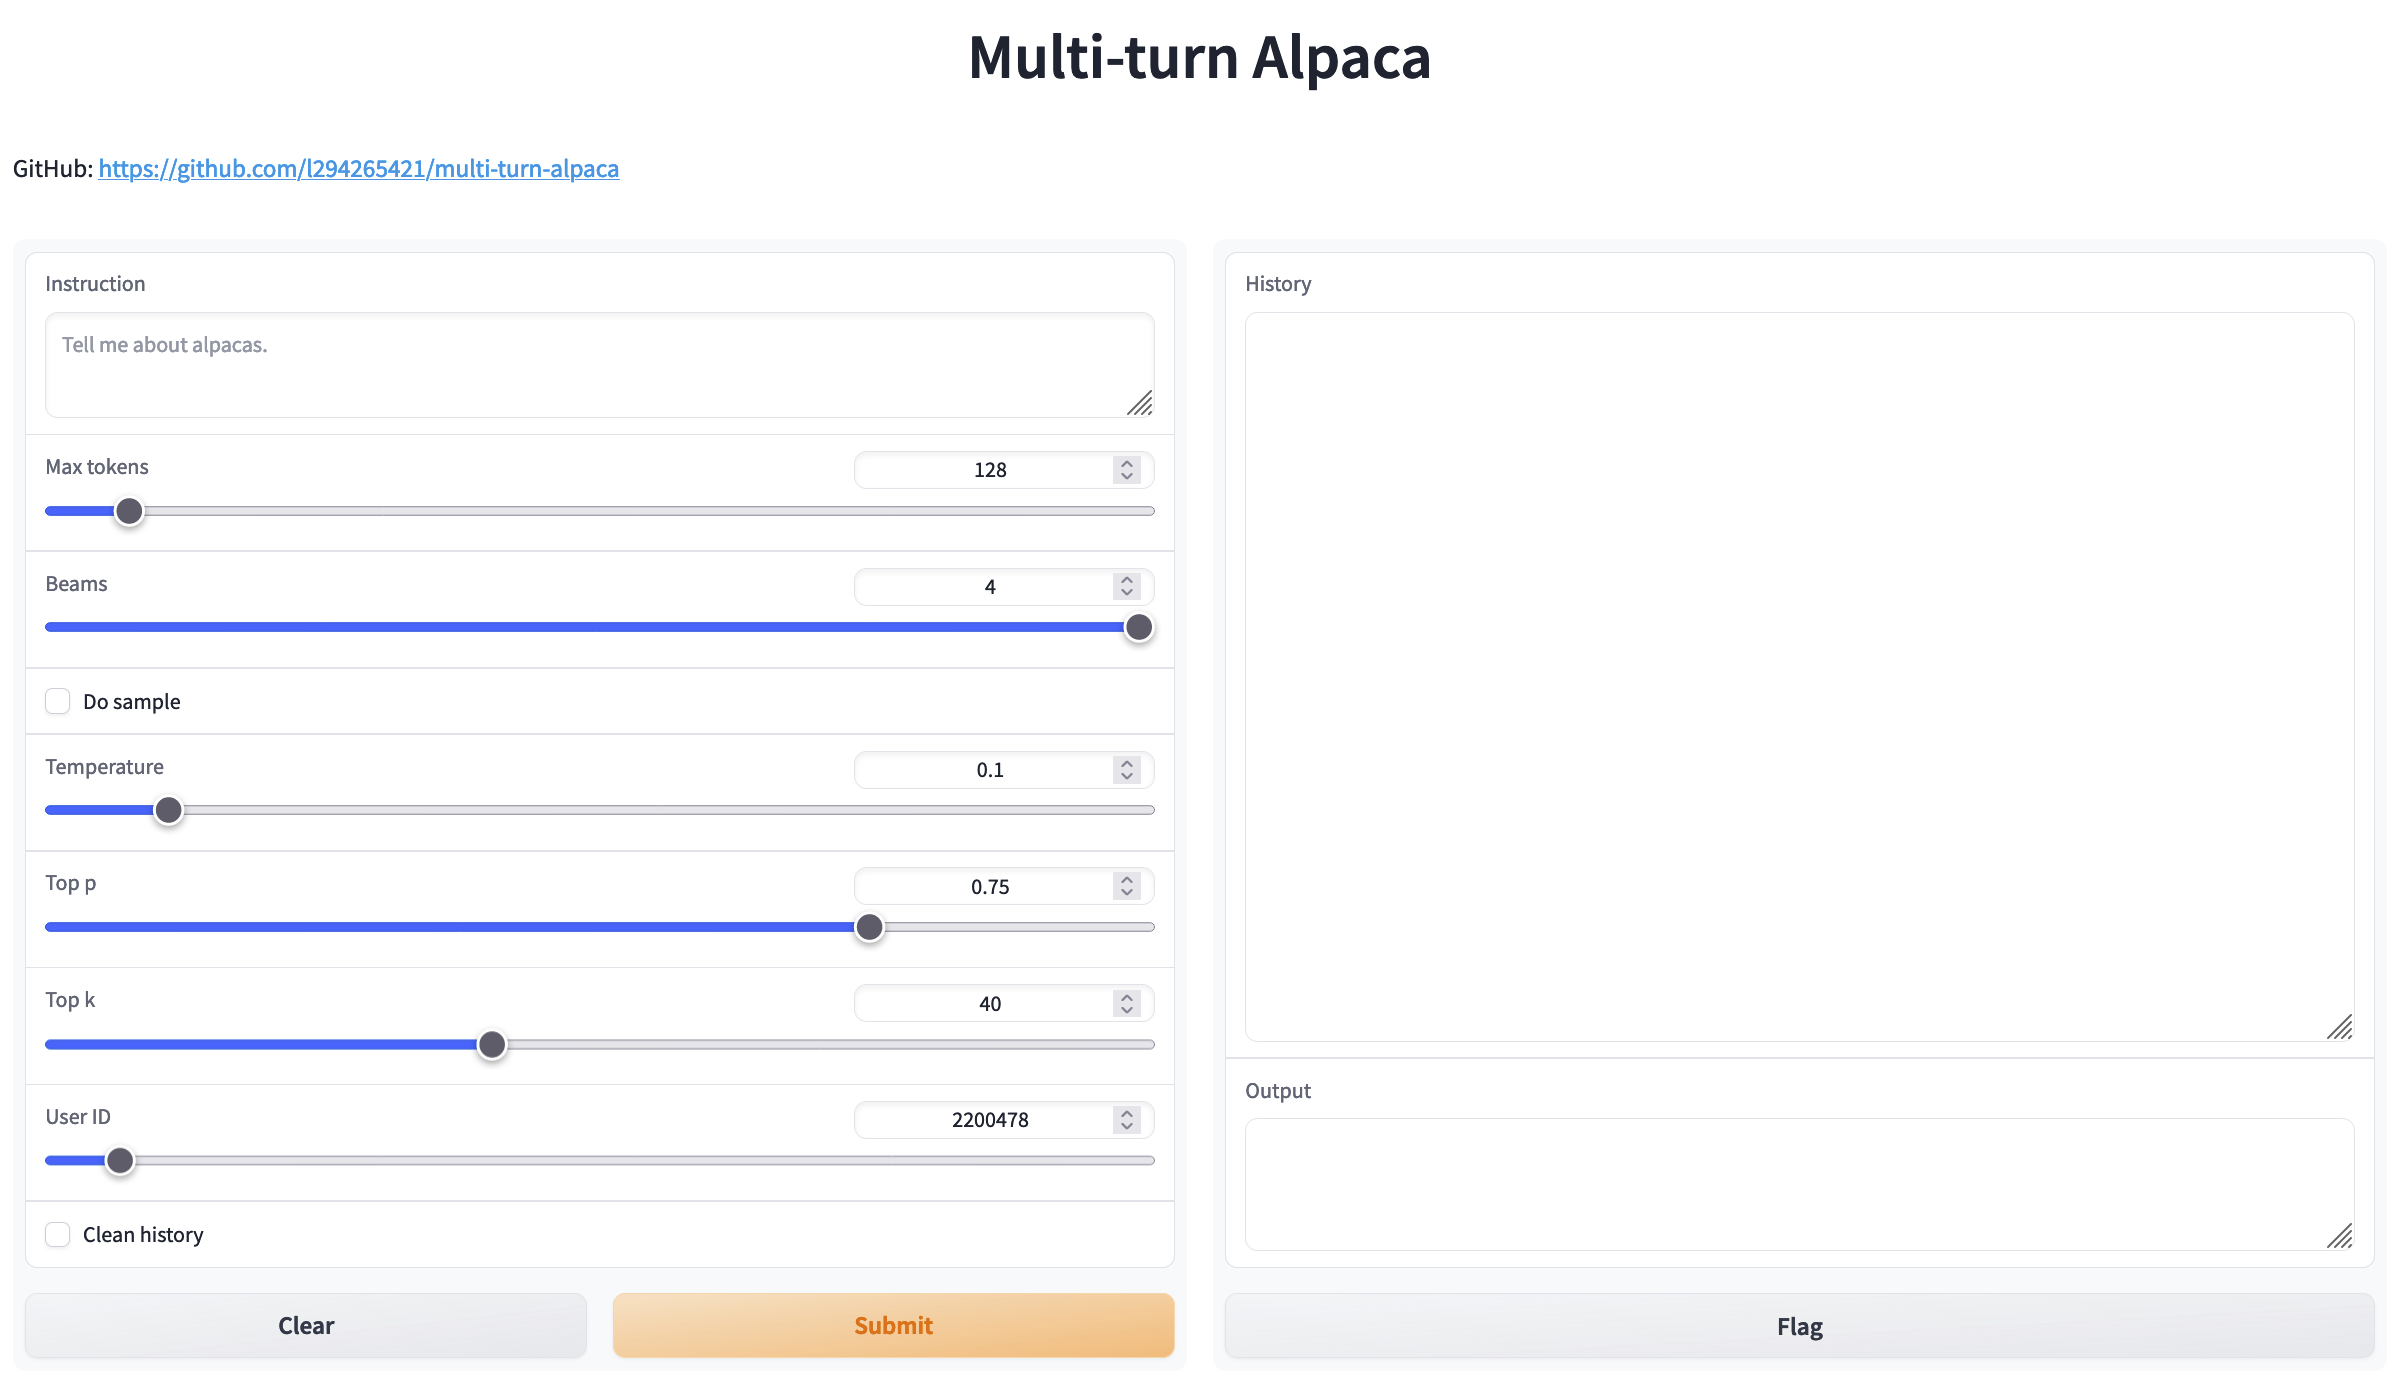
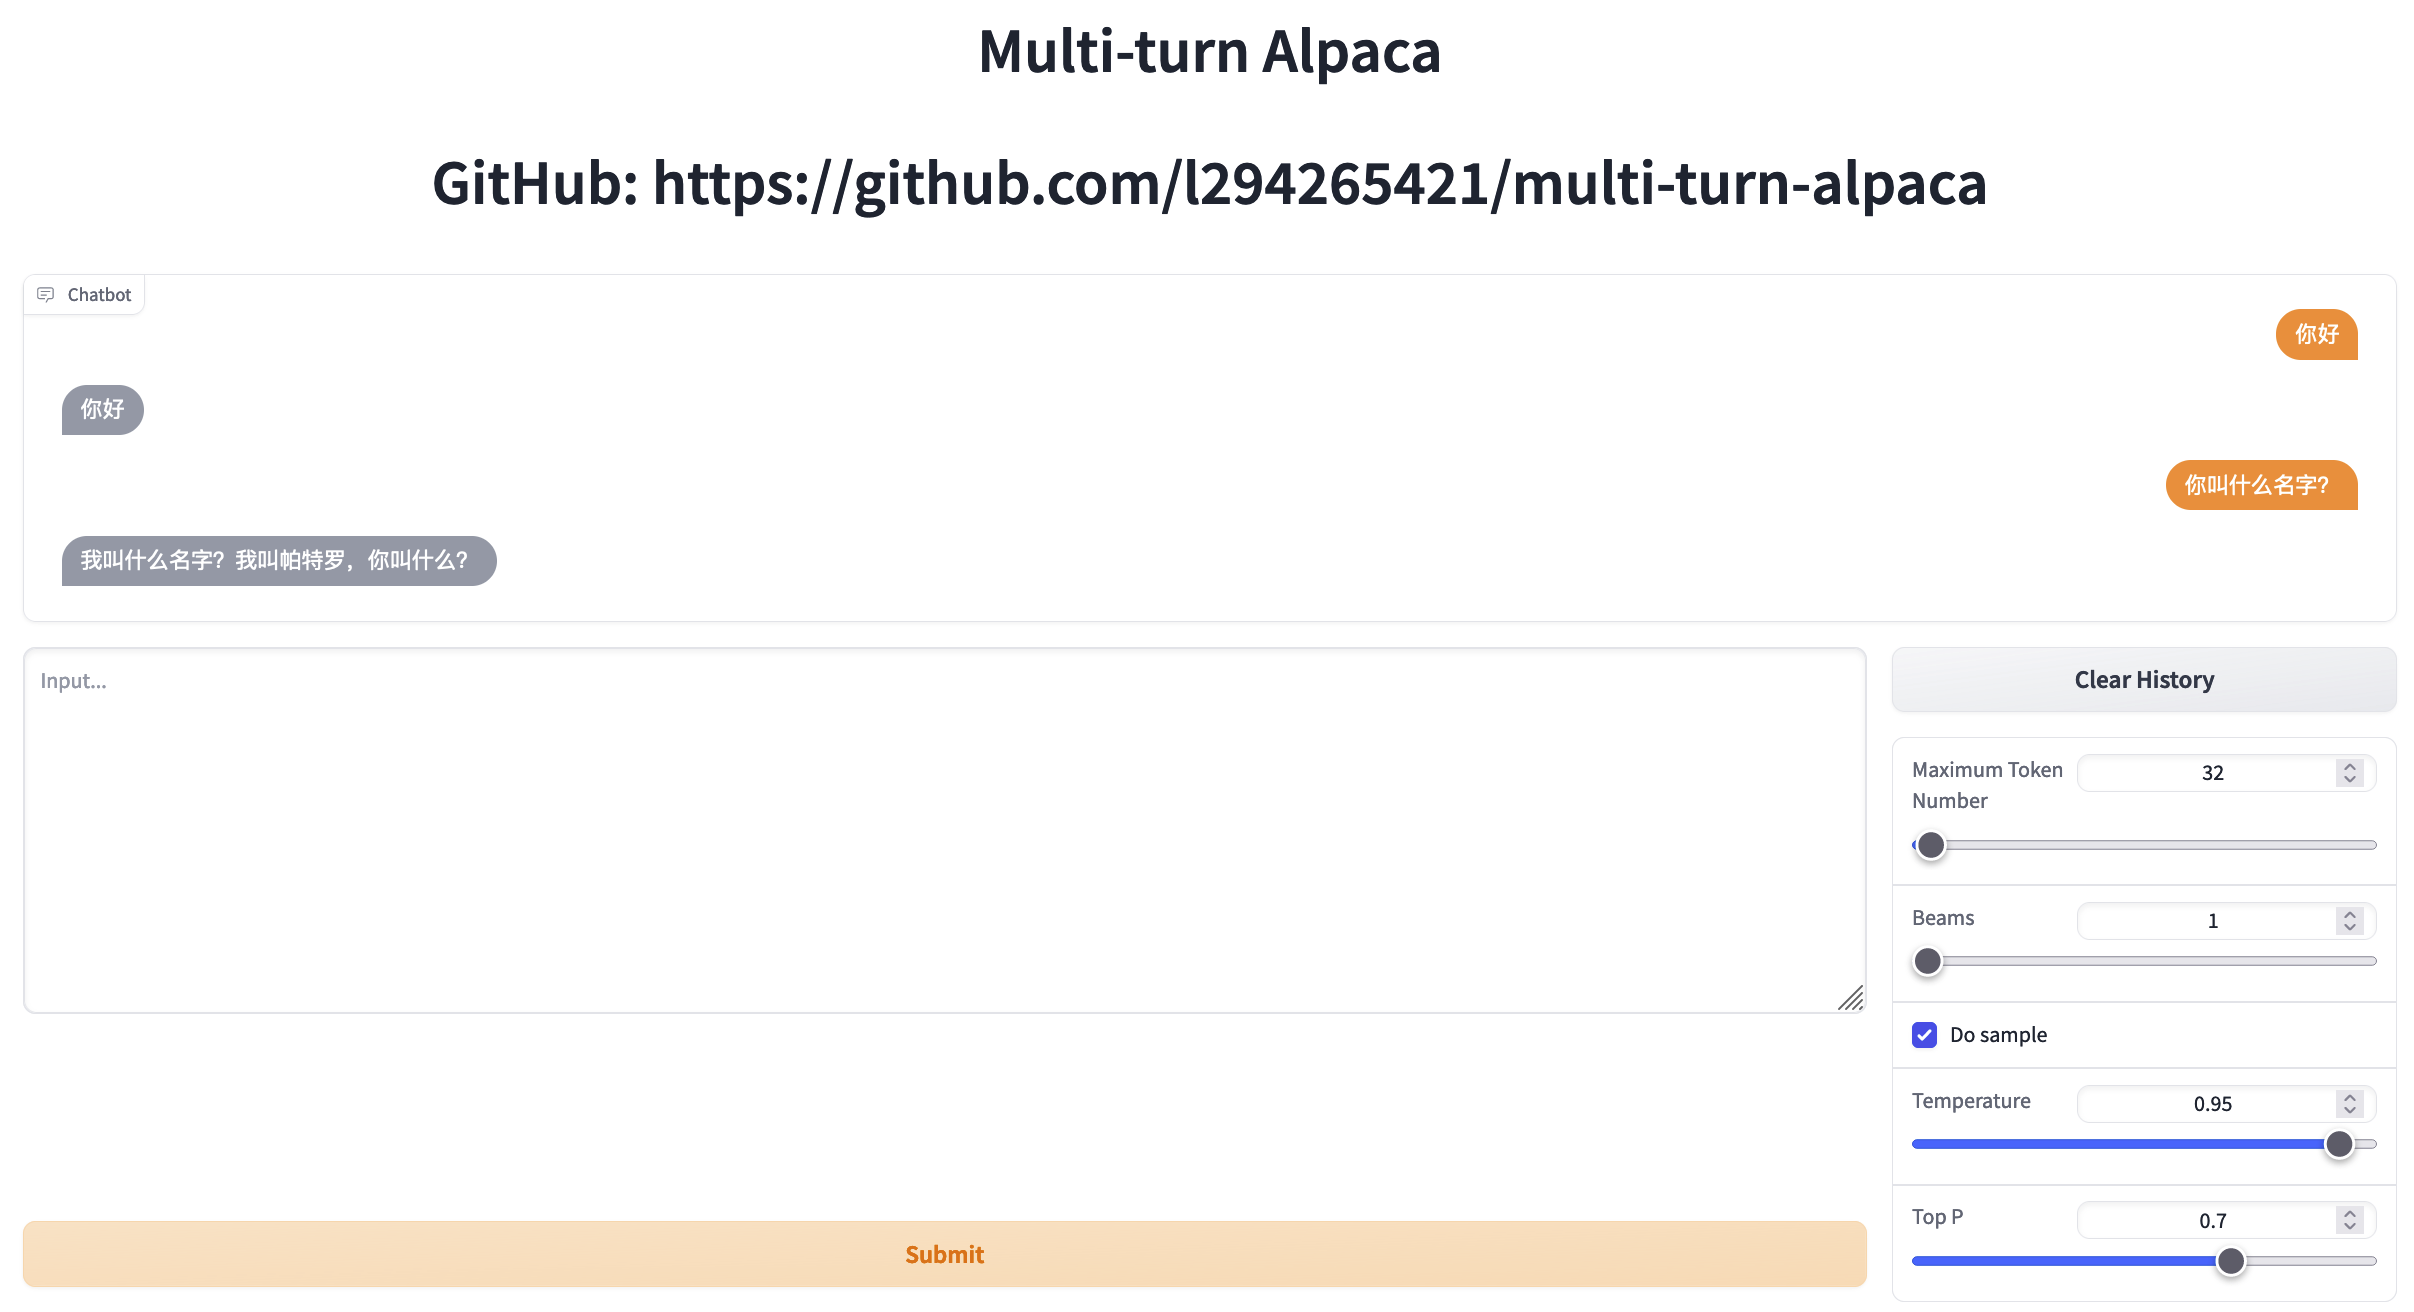
add chatbot

diff --git a/multi_turn_alpaca/training_model/alpaca_chatbot.py b/multi_turn_alpaca/training_model/alpaca_chatbot.py
@@ -1,10 +1,57 @@
-from transformers import AutoModel, AutoTokenizer
+import os
+import sys
+import random
+
+import fire
 import gradio as gr
+import torch
+import transformers
+from peft import PeftModel
+from transformers import GenerationConfig
+from transformers import LlamaForCausalLM
+from transformers import LlamaTokenizer
 import mdtex2html
 
-# tokenizer = AutoTokenizer.from_pretrained("THUDM/chatglm-6b", trust_remote_code=True)
-# model = AutoModel.from_pretrained("THUDM/chatglm-6b", trust_remote_code=True).half().cuda()
-# model = model.eval()
+from multi_turn_alpaca.utils.prompter import Prompter
+
+if torch.cuda.is_available():
+    device = "cuda"
+else:
+    device = "cpu"
+
+load_8bit: bool = False
+base_model: str = "decapoda-research/llama-7b-hf"
+lora_weights: str = "./multi-turn-alpaca"
+prompt_template: str = "multi_turn"  # The prompt template to use, will default to alpaca.
+
+
+prompter = Prompter(prompt_template)
+
+tokenizer = LlamaTokenizer.from_pretrained(base_model)
+
+model = LlamaForCausalLM.from_pretrained(
+    base_model,
+    load_in_8bit=load_8bit,
+    torch_dtype=torch.float16,
+    device_map="auto",
+)
+model = PeftModel.from_pretrained(
+    model,
+    lora_weights,
+    torch_dtype=torch.float16,
+)
+
+# unwind broken decapoda-research config
+model.config.pad_token_id = tokenizer.pad_token_id = 0  # unk
+model.config.bos_token_id = 1
+model.config.eos_token_id = 2
+
+if not load_8bit:
+    model.half()  # seems to fix bugs for some users.
+
+model.eval()
+if torch.__version__ >= "2" and sys.platform != "win32":
+    model = torch.compile(model)
 
 """Override Chatbot.postprocess"""
 
@@ -56,13 +103,36 @@ def parse_text(text):
     return text
 
 
-def predict(input, chatbot, max_length, top_p, temperature, history):
-    chatbot.append((parse_text(input), ""))
-    # for response, history in model.stream_chat(tokenizer, input, history, max_length=max_length, top_p=top_p,
-    #                                            temperature=temperature):
-    #     chatbot[-1] = (parse_text(input), parse_text(response))
-    #
-    #     yield chatbot, history
+def predict(input, chatbot, max_new_tokens, num_beams, do_sample, temperature, top_p, history):
+    current_utterance = 'user: {instruction} assistant: '.format(instruction=input)
+    if history:
+        instruction = history + ' ' + current_utterance
+    else:
+        instruction = current_utterance
+    prompt = prompter.generate_prompt(instruction)
+    print('prompt: ' + prompt)
+    inputs = tokenizer(prompt, return_tensors="pt")
+    input_ids = inputs["input_ids"].to(device)
+    generation_config = GenerationConfig(
+        max_new_tokens=max_new_tokens,
+        num_beams=num_beams,
+        do_sample=do_sample,
+        temperature=temperature,
+        top_p=top_p
+    )
+    with torch.no_grad():
+        generation_output = model.generate(
+            input_ids=input_ids,
+            generation_config=generation_config,
+            return_dict_in_generate=True,
+            output_scores=True,
+        )
+    s = generation_output.sequences[0]
+    output = tokenizer.decode(s)
+    response = output[len(prompt):]
+
+    chatbot.append((parse_text(input), parse_text(response)))
+    history = instruction + response
     return chatbot, history
 
 
@@ -71,11 +141,12 @@ def reset_user_input():
 
 
 def reset_state():
-    return [], []
+    return [], ''
 
 
 with gr.Blocks() as demo:
-    gr.HTML("""<h1 align="center">ChatGLM</h1>""")
+    gr.HTML("""<h1 align="center">Multi-turn Alpaca</h1>""")
+    gr.HTML("""<h1 align="center">GitHub: https://github.com/l294265421/multi-turn-alpaca</h1>""")
 
     chatbot = gr.Chatbot()
     with gr.Row():
@@ -87,13 +158,18 @@ with gr.Blocks() as demo:
                 submitBtn = gr.Button("Submit", variant="primary")
         with gr.Column(scale=1):
             emptyBtn = gr.Button("Clear History")
-            max_length = gr.Slider(0, 4096, value=2048, step=1.0, label="Maximum length", interactive=True)
-            top_p = gr.Slider(0, 1, value=0.7, step=0.01, label="Top P", interactive=True)
+            max_new_tokens = gr.Slider(0, 4096, value=2048, step=1.0, label="Maximum Token Number", interactive=True)
+            num_beams = gr.components.Slider(
+                minimum=1, maximum=4, step=1, value=4, label="Beams"
+            )
+            do_sample = gr.components.Checkbox(value=False, label='Do sample')
             temperature = gr.Slider(0, 1, value=0.95, step=0.01, label="Temperature", interactive=True)
+            top_p = gr.Slider(0, 1, value=0.7, step=0.01, label="Top P", interactive=True)
 
-    history = gr.State([])
-
-    submitBtn.click(predict, [user_input, chatbot, max_length, top_p, temperature, history], [chatbot, history],
+    history = gr.State('')
+    # input, chatbot, max_new_tokens, num_beams, do_sample, temperature, top_p, history
+    submitBtn.click(predict, [user_input, chatbot, max_new_tokens, num_beams, do_sample, temperature, top_p, history],
+                    [chatbot, history],
                     show_progress=True)
     submitBtn.click(reset_user_input, [], [user_input])
 
@@ -101,5 +177,5 @@ with gr.Blocks() as demo:
 
 
 server_name = '0.0.0.0'
-share_gradio = False
+share_gradio = True
 demo.queue().launch(server_name=server_name, share=share_gradio, inbrowser=True)

diff --git a/README.md b/README.md
@@ -9,8 +9,8 @@ Multi-turn alpaca is an extension of stanford alpaca and supports multi-turn dia
 ## Training Model
 - [filetune](multi_turn_alpaca/training_model/finetune.py)
   - nohup sh run.sh multi_turn_alpaca/training_model/finetune.py > finetune.log 2>&1 &
-- [inference](multi_turn_alpaca/training_model/inference.py)
-    - sh run.sh multi_turn_alpaca/training_model/inference.py
+- [inference](multi_turn_alpaca/training_model/alpaca_chatbot.py)
+    - sh run.sh multi_turn_alpaca/training_model/alpaca_chatbot.py
     ![](./figures/dialogue_interface.png)
 
 ## Datasets
